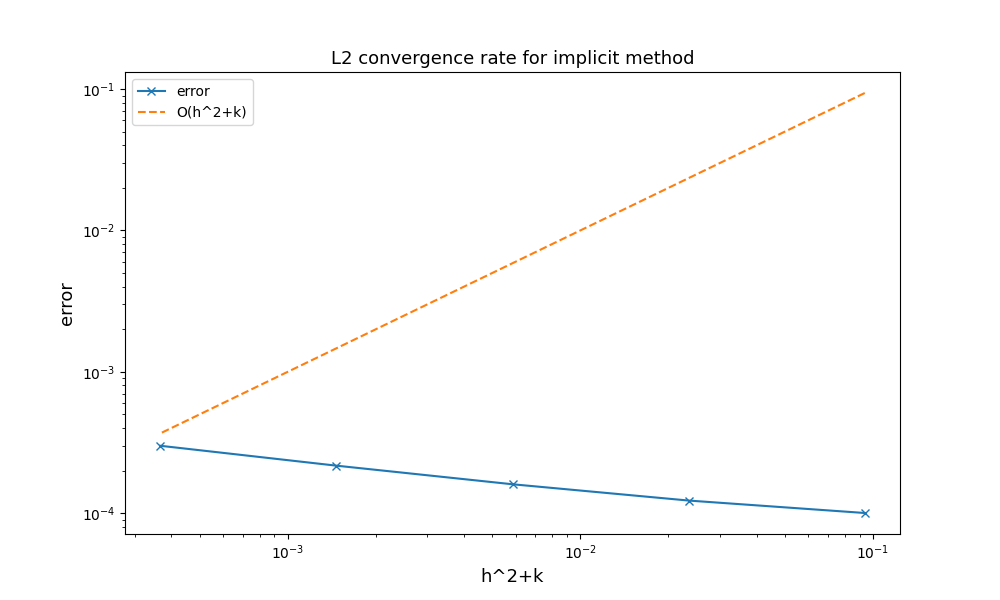
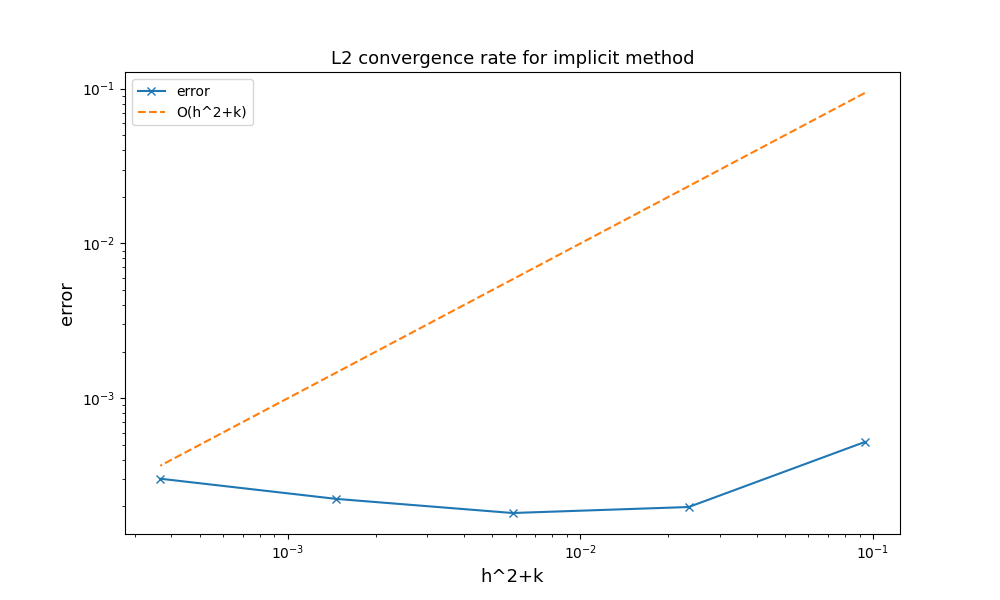
Final submit of exercise sheet 1

diff --git a/Exercise1/1_exercise3.py b/Exercise1/1_exercise3.py
@@ -1,0 +1,174 @@
+import matplotlib.pyplot as plt
+import numpy as np
+import numpy.linalg as lin
+#You may add any package/module you need
+
+np.seterr(all='raise')  # Set how floating-point errors are handled.
+
+
+def initial_value(x):
+    return np.cos(np.pi * x)
+
+
+#### exact solution at t=1 ####
+def exact_solution_at_1(x):
+
+    #print("Call exact solution at t=1")
+    # todo 3 a)
+    res = np.exp(- np.pi**2) * np.cos(np.pi * x)
+    #print("return exact solution at t=1")
+    return res
+
+
+#### exact solution at t=1 ####
+
+
+def makeG(N : int) -> np.matrix :
+    """
+    Create the matrix G
+    :param N:
+    :return:
+    """
+
+    #print("Make G")
+    # Create G
+    G = -2 * np.identity(N+1)
+    for n in range(1, N):
+        G[n, n+1] = 1
+        G[n, n-1] = 1
+
+    G[0,1] = 2
+    G[N, N-1] = 2
+
+    #print("return G")
+    return G
+
+
+#### numerical scheme ####
+def Eulerexplicit(N, M):
+
+    print("M: ", M, " , N: ", N)
+
+    h, k = 1/N, 1/M
+
+
+    print("h:", h, " , k: ", k)
+
+    #print("Calculate v")
+    v = k / (h ** 2)
+
+
+    # Create G
+    G = makeG(N)
+
+    #print("Calculate C")
+
+    C = np.identity(N+1) + v * G
+    print("v: ", v)
+
+    #print("print C: ", C)
+
+    x_initial = np.linspace(start=0, stop=1, num=N+1)
+
+    u = initial_value(x_initial)
+
+    #print("initial u: ", u)
+    for m in range(M):
+
+        # get u_{m+1}
+        u = C.dot(u)
+        if u[0] == np.nan:
+            print("u is nan, iteration: ", m)
+
+    # print("final u: ", u)
+
+    return u
+
+
+def Eulerimplicit(N, M):
+    h, k = 1 / N, 1 / M
+
+    print("Calculate v")
+    v = k / (h ** 2)
+
+
+    # Create G
+    G = makeG(N)
+
+    # Define C and invert it to go the iterative scheme forward, since we have to start at the initial condition
+    C = np.identity(N + 1) - v * G
+
+    x_initial = np.linspace(start=0, stop=1, num=N + 1)
+
+    u = initial_value(x_initial)
+
+    for m in range(M):
+        u = np.linalg.solve(C, u)
+
+    return u
+
+#### numerical scheme ####
+
+
+#### error analysis ####
+
+
+l_list = [2, 3, 4, 5, 6]
+l = len(l_list)
+
+task = "d" # "d"
+
+if task == "c":
+    N = np.power(2, l_list)
+    M = 2 * np.power(4, l_list)
+
+elif task == "d":
+    N = np.power(2, l_list)
+    M = np.power(4, l_list)
+
+else:
+    print("wrong task assigned")
+
+
+l2errorexplicit = np.zeros(5)  # error vector for explicit method
+l2errorimplicit = np.zeros(5)  # error vector for implicit method
+h2k = 1 / (N ** 2) + 1 / M
+
+#### Do not change any code below! ####
+try:
+    for i in range(5):
+        l2errorexplicit[i] = (1 / N[i]) ** (1 / 2) * lin.norm(
+            exact_solution_at_1(np.linspace(0, 1, N[i] + 1).reshape(N[i] + 1, 1)) - Eulerexplicit(N[i], M[i]), ord=2)
+    conv_rate = np.polyfit(np.log(h2k), np.log(l2errorexplicit), deg=1)
+    print("Explicit method converges: Convergence rate in discrete L2 norm with respect to h^2+k: " + str(conv_rate[0]))
+    plt.figure(figsize=[10, 6])
+    plt.loglog(h2k, l2errorexplicit, '-x', label='error')
+    plt.loglog(h2k, h2k, '--', label='O(h^2+k)')
+    plt.title('L2 convergence rate for explicit method', fontsize=13)
+    plt.xlabel('h^2+k', fontsize=13)
+    plt.ylabel('error', fontsize=13)
+    plt.legend()
+    plt.plot()
+except Exception as e:
+    print("Error unbounded for explicit method", e)
+
+try:
+    for i in range(5):
+        l2errorimplicit[i] = (1 / N[i]) ** (1 / 2) * lin.norm(
+            exact_solution_at_1(np.linspace(0, 1, N[i] + 1).reshape(N[i] + 1, 1)) - Eulerimplicit(N[i], M[i]), ord=2)
+    conv_rate = np.polyfit(np.log(h2k), np.log(l2errorimplicit), deg=1)
+    print("Implicit method converges: Convergence rate in discrete L2 norm with respect to h^2+k: " + str(conv_rate[0]))
+    plt.figure(figsize=[10, 6])
+    plt.loglog(h2k, l2errorimplicit, '-x', label='error')
+    plt.loglog(h2k, h2k, '--', label='O(h^2+k)')
+    plt.title('L2 convergence rate for implicit method', fontsize=13)
+    plt.xlabel('h^2+k', fontsize=13)
+    plt.ylabel('error', fontsize=13)
+    plt.legend()
+    plt.plot()
+except:
+    print("Error unbounded for implicit method")
+
+plt.show()
+
+#### error analysis ####
